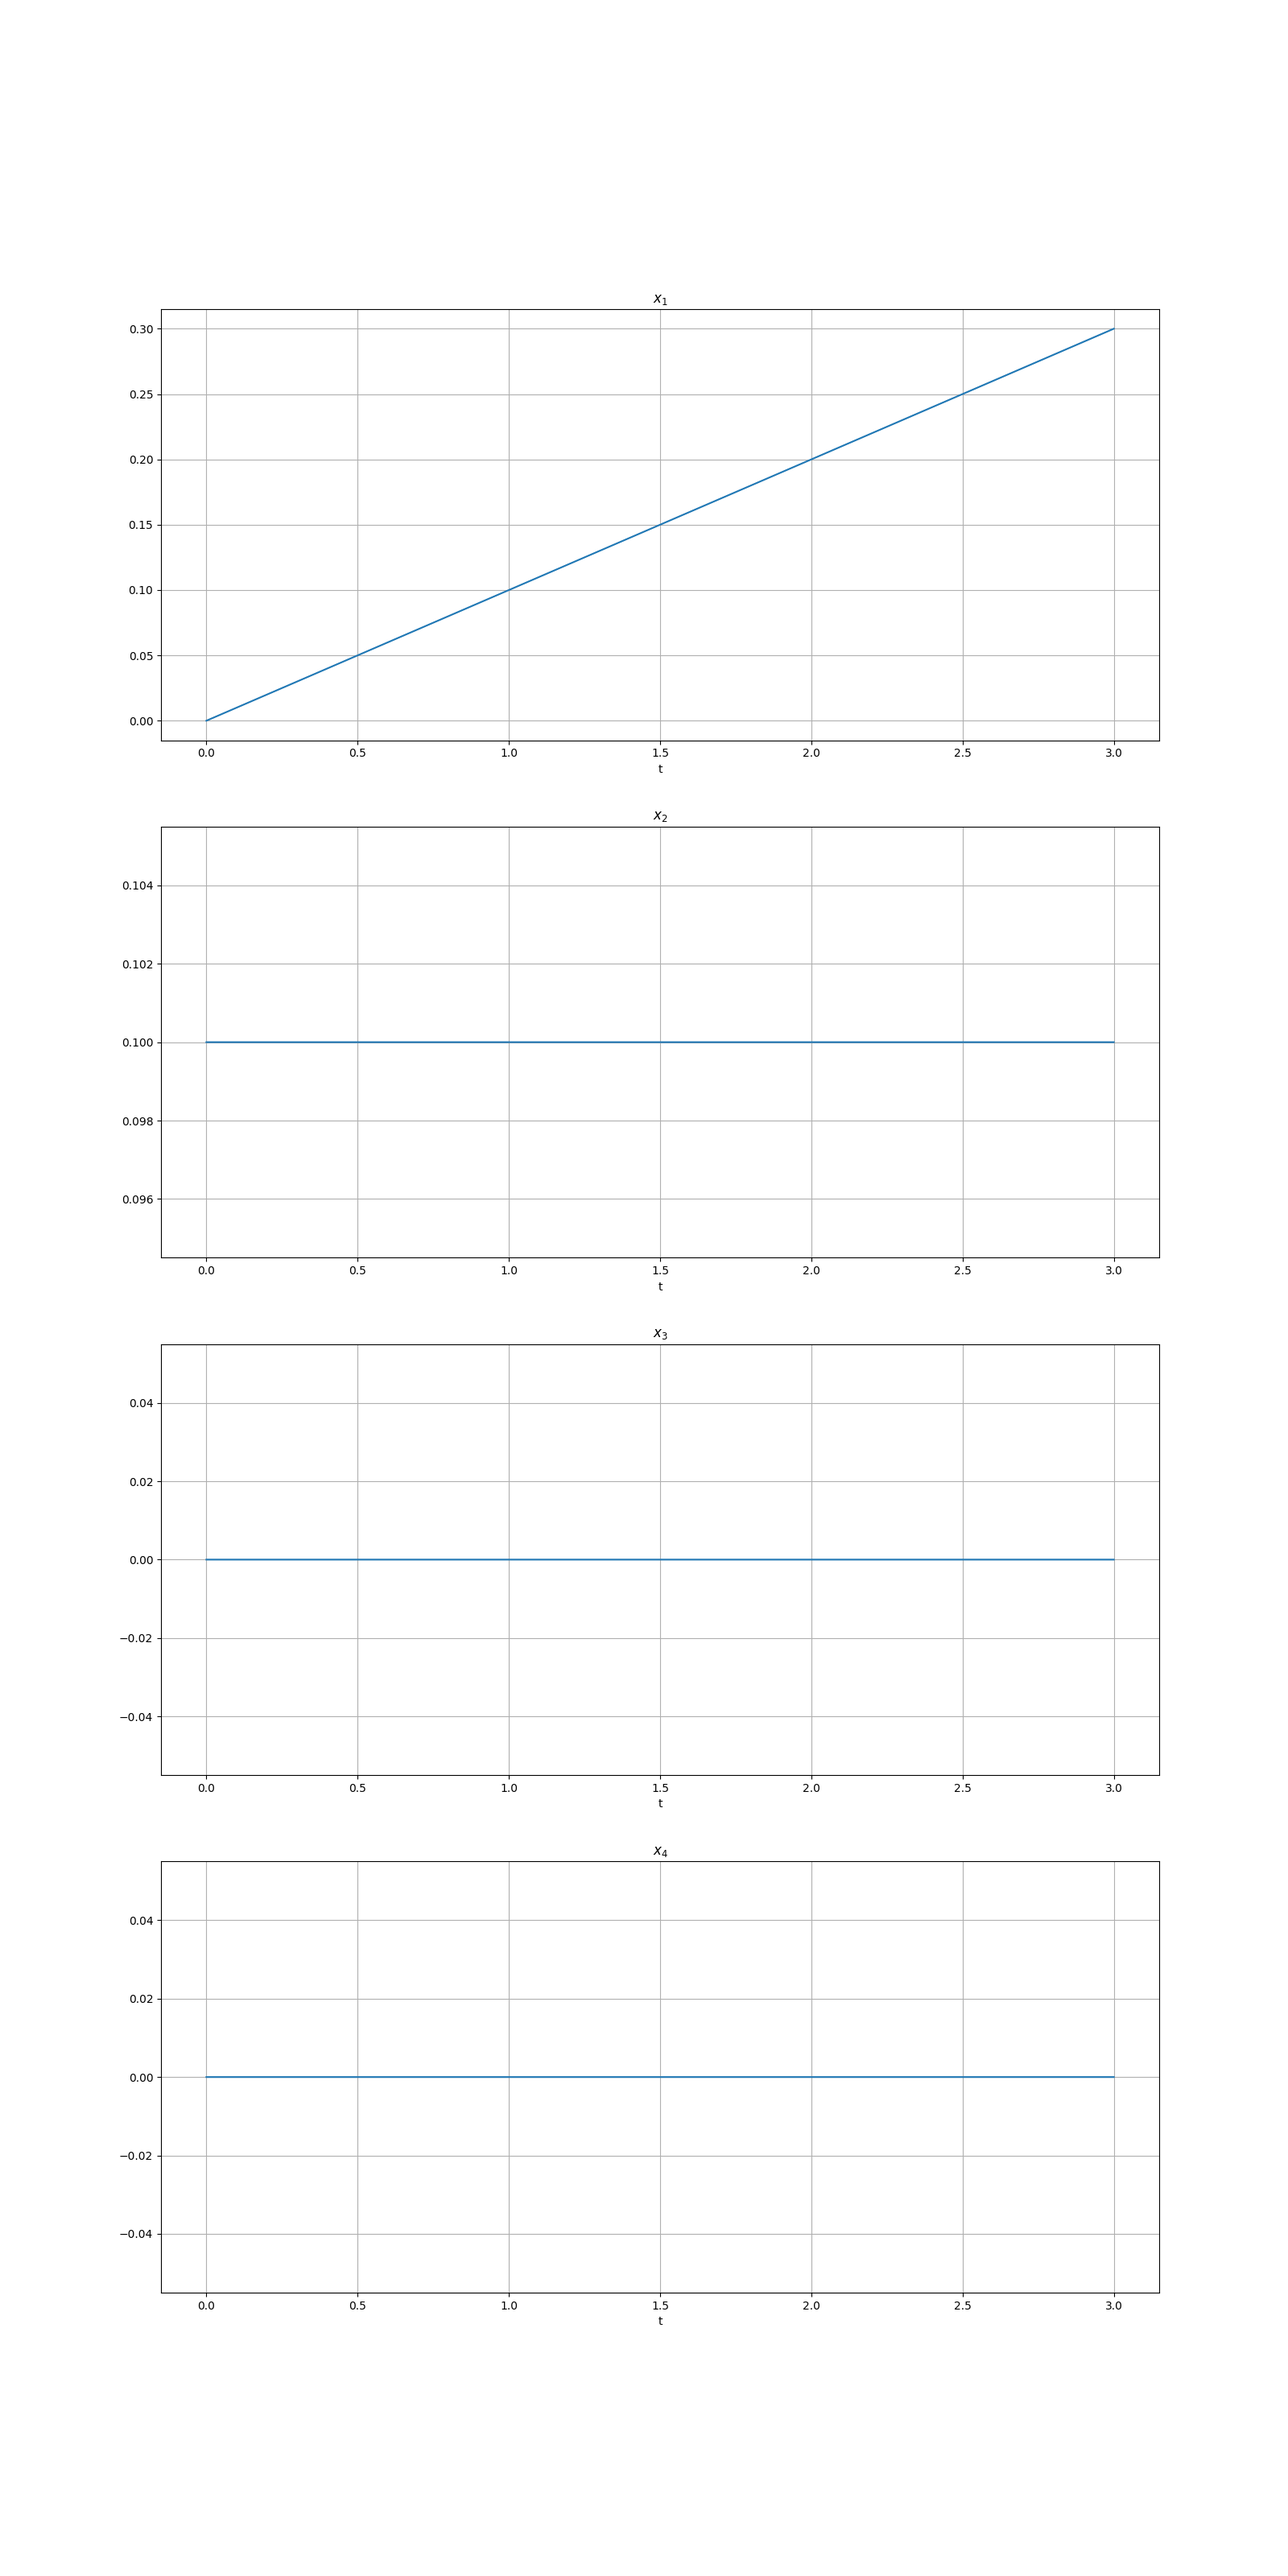
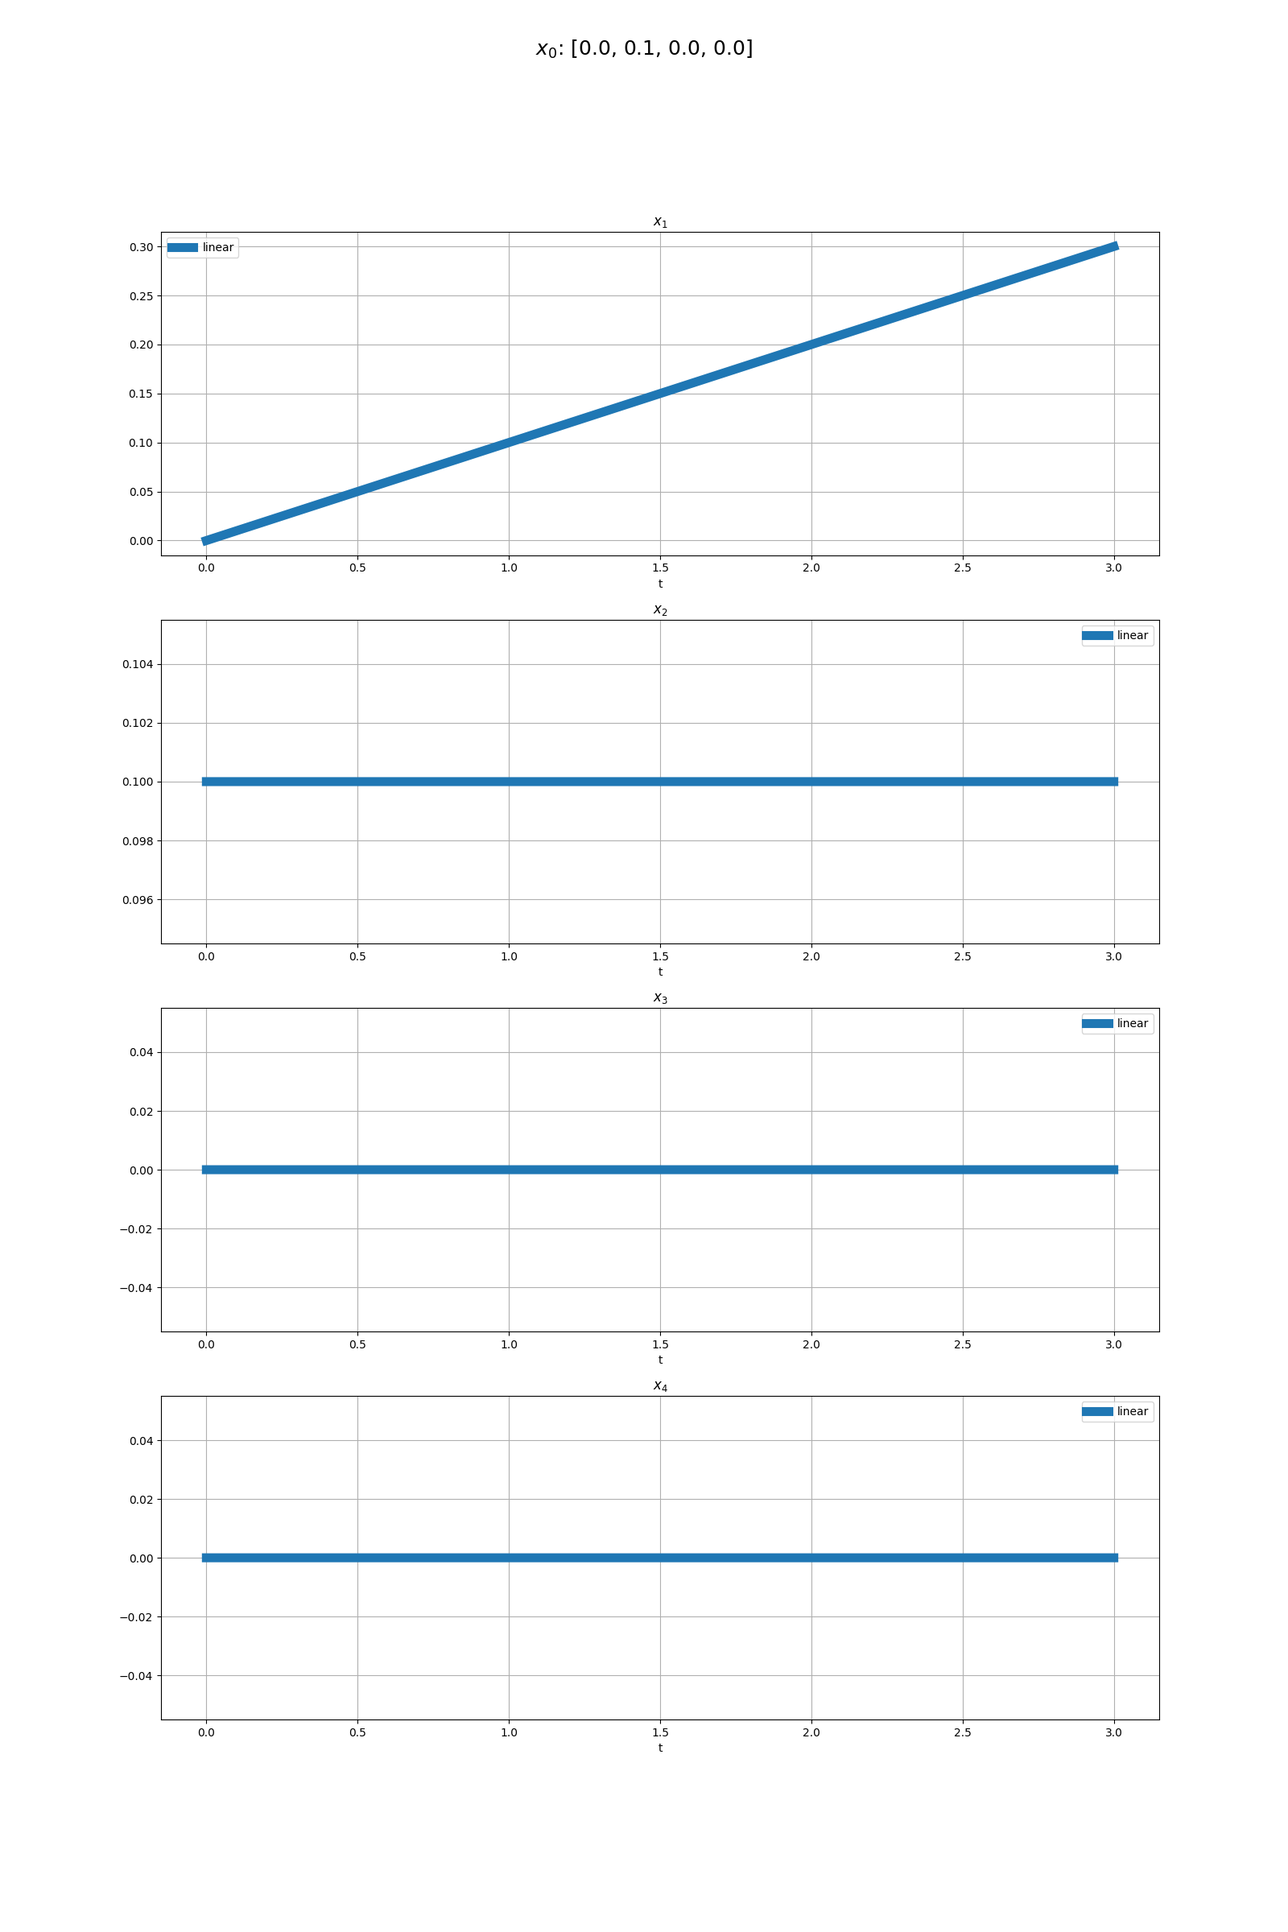
chapter 2 new reports

diff --git a/kurs/chapter2.py b/kurs/chapter2.py
@@ -84,12 +84,14 @@ def task2(A, B, C, D):
 # Task3
 def draw_linear_response(ss, x0, time):
     response = control.initial_response(ss, T=time, X0=x0)
-    fig, ax = plt.subplots(4, figsize=(16, 32))
+    fig, ax = plt.subplots(4, figsize=(16, 24))
+    fig.suptitle(f"$x_0$: {x0}", fontsize=18)
     for i in range(4):
         ax[i].set_title(f"$x_{i+1}$")
-        ax[i].plot(time, response.states[i])
+        ax[i].plot(time, response.states[i], linewidth=8, label="linear")
         ax[i].set_xlabel('t')
         ax[i].grid()
+        ax[i].legend()
 
     plt.savefig(f"chapter2_reports/task3_{"_".join([str(x) for x in x0])}.png")
 
@@ -130,13 +132,15 @@ def updfcn(t, x, u, params):
 
 def draw_and_compare_nonlinear_response(ss_lin, ss_nonlin, x0, time):
     resp = control.initial_response(ss_lin, T=time, X0=x0)
-    fig, ax = plt.subplots(4, figsize=(16, 32))
+    resp_nonlin = control.input_output_response(ss_nonlin, T=time, X0=x0, U=np.zeros((2, len(time))))
 
-    resp_non_lin = control.input_output_response(ss_nonlin, T=time, X0=x0, U=np.zeros((2, len(time))))
+    fig, ax = plt.subplots(4, figsize=(16, 24))
+    fig.suptitle(f"$x_0$: {x0}", fontsize=18)
+
     for i in range(4):
         ax[i].set_title(f"$x_{i + 1}$")
-        ax[i].plot(time, resp.states[i], label='lin')
-        ax[i].plot(time, resp_non_lin.states[i], label='nonlin')
+        ax[i].plot(time, resp.states[i], label='linear', linewidth=8)
+        ax[i].plot(time, resp_nonlin.states[i], '--', label='nonlinear', linewidth=8)
 
         ax[i].set_xlabel('t')
         ax[i].grid()
